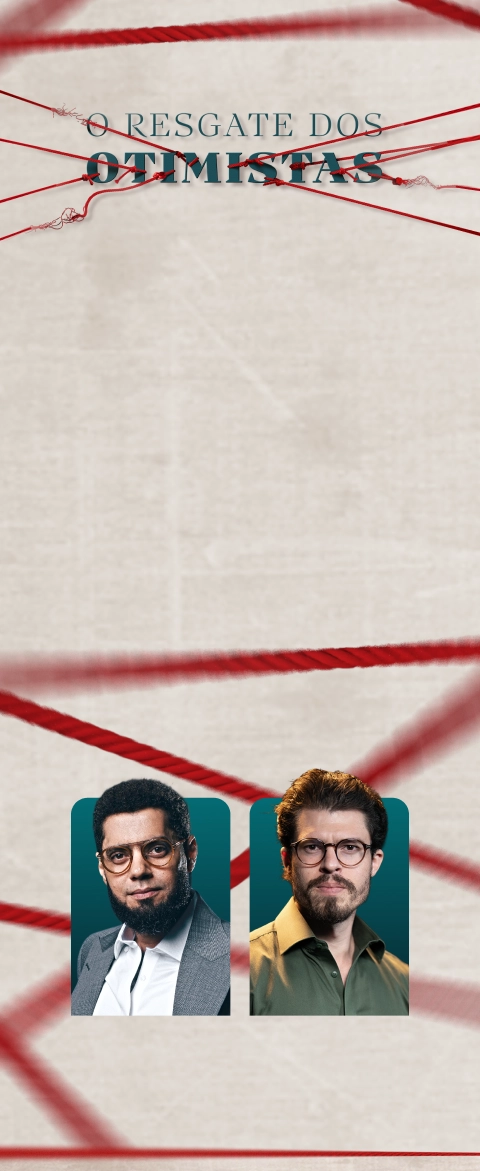
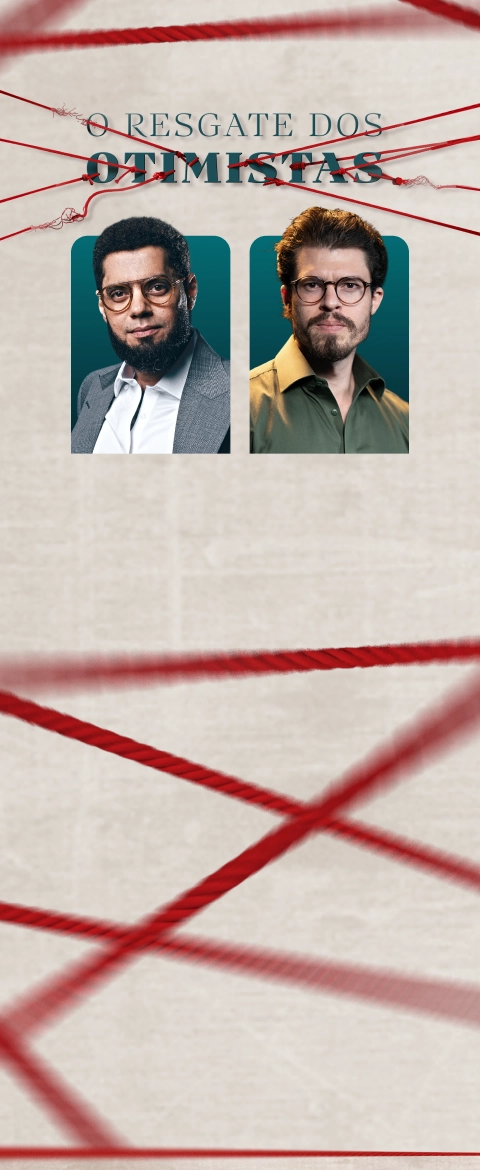
alterações na estrutura do mobile v6 dma

diff --git a/app/oro/dma/components/hero-section.tsx b/app/oro/dma/components/hero-section.tsx
@@ -25,23 +25,14 @@ export default function HeroSection({
 	return (
 		<section
 			id="hero"
-			className={`relative h-[1171px] md:h-[901px] flex flex-col items-center p-4 md:p-0 justify-start md:justify-center overflow-hidden bg-[#D3CAC0] bg-[url('/images/oro/v6/o_resgate_dos_otimistas_clara_mobile.webp')] md:bg-[url('/images/oro/v6/o_resgate_dos_otimistas_clara.webp')] bg-cover bg-top md:bg-center z-0`}		>
+			className={`relative h-[1019px] md:h-[901px] flex flex-col items-center p-4 md:p-0 justify-start md:justify-center overflow-hidden bg-[#D3CAC0] bg-[url('/images/oro/v6/o_resgate_dos_otimistas_clara_mobile_teste.webp')] md:bg-[url('/images/oro/v6/o_resgate_dos_otimistas_clara_teste.webp')] bg-cover bg-top md:bg-center z-0`}
+		>
 			<div
 				className={`mx-auto sm:px-4 2md:pt-6 pt-2 relative lg:w-[1080px] w-full flex justify-center md:justify-start`}
 			>
-				<div className="w-full 2md:max-w-[528px] max-w-[440px] pt-44 2md:pt-32">
-					<div
-						className={`text-[#fff] font-raleway font-medium text-[14px] flex items-center mt-20 justify-start sm:gap-8 gap-2 xl:text-2xl sm:text-2xl text-sm`}
-					>
-						<div className="flex items-center justify-center leading-none gap-2 text-[#07242C] font-raleway font-medium text-xs md:text-[14px]">
-							<CalendarDays className="text-[#006D71]" size={18} />
-							16, 17 e 18/03 - 19h55
-						</div>
-						<div className="flex items-center justify-center leading-none gap-2 text-[#07242C] font-raleway font-medium text-xs md:text-[14px]">
-							<Smartphone className="text-[#006D71]" size={18} />
-							Online e Gratuito
-						</div>
-					</div>
+				<div className="w-full md:max-w-[528px] max-w-[440px] pt-[450px] md:pt-32">
+
+					{/* TÍTULO */}
 					<div className="md:mt-6 mt-3 mb-2 font-bebas-neue text-left">
 						<div
 							className={`2md:text-[40px] text-xl leading-none text-left text-[#f4f0e1] font-spectral font-extrabold`}
@@ -50,22 +41,28 @@ export default function HeroSection({
 						</div>
 					</div>
 
+					{/* DATAS + ÍCONES (MOVIDO PARA CÁ) */}
+					<div
+						className={`text-[#fff] font-raleway font-medium text-[14px] flex items-center mt-4 justify-start sm:gap-8 gap-2 xl:text-2xl sm:text-2xl text-sm`}
+					>
+						<div className="flex items-center justify-center leading-none gap-2 text-[#07242C] font-raleway font-medium text-xs md:text-[14px]">
+							<CalendarDays className="text-[#006D71]" size={18} />
+							16, 17 e 18/03 - 19h55
+						</div>
+
+						<div className="flex items-center justify-center leading-none gap-2 text-[#07242C] font-raleway font-medium text-xs md:text-[14px]">
+							<Smartphone className="text-[#006D71]" size={18} />
+							Online e Gratuito
+						</div>
+					</div>
+
+					{/* TEXTO ABAIXO DO TÍTULO */}
 					<div
 						className="md:mb-8 mb-4 mt-4 text-[#07242C] 2md:text-2xl text-base font-extralight font-spectral"
 					>
-						{redLine ? (
-							redLine
-						) : (
-							<>
-								Descubra como{" "}
-								<span className="font-bold text-[#07242C]">
-									AUMENTAR O SEU NÍVEL DE PERMISSÃO
-								</span>{" "}
-								e melhorar seus resultados nas finanças, nos relacionamentos e
-								na saúde.
-							</>
-						)}
+						{redLine}
 					</div>
+
 					<div className="max-w-lg mt-8">
 						<LeadCaptureForm
 							formName={formName}
@@ -83,6 +80,7 @@ export default function HeroSection({
 							buttonClassName="w-full max-w-[512px] h-[46px] md:h-[56px] flex items-center justify-center gap-2 whitespace-nowrap font-raleway font-extrabold text-[#FFFFFF] rounded-[10px] px-[48px] py-[16px] text-base uppercase tracking-wide transition-all hover:brightness-110 border border-transparent bg-[linear-gradient(88.53deg,_#D10C10_0%,_#9B0609_100%)] shadow-[0px_6px_13px_0px_#00000033]"
 						/>
 					</div>
+
 				</div>
 			</div>
 		</section>

diff --git a/app/oro/dma/components/headline.tsx b/app/oro/dma/components/headline.tsx
@@ -5,7 +5,7 @@ interface IHeadline {
   isPicture: boolean;
   isLogo: boolean;
   title: ReactNode;
-  text: ReactNode;
+  text: ReactNode | null;
 }
 
 export const Headline: IHeadline[] = [
@@ -14,16 +14,10 @@ export const Headline: IHeadline[] = [
     isPicture: false,
     isLogo: true,
     title: (
-      <p
-        className="uppercase font-spectral text-[#07242C] font-extrabold"
-      >
+      <p className="uppercase font-spectral text-[#07242C] font-extrabold">
         Você quer entender como <span className="text-[#006D71]">evoluir seu desenvolvimento pessoal</span> e ter mais clareza e direção na sua vida
       </p>
     ),
-    text: (
-      <p>
-        Descubra como <span className="uppercase font-bold">aumentar o seu nível de permissão</span> e melhorar seus resultados nas finanças, nos relacionamentos e na saúde.
-      </p>
-    ),
+    text: null,
   },
 ];
